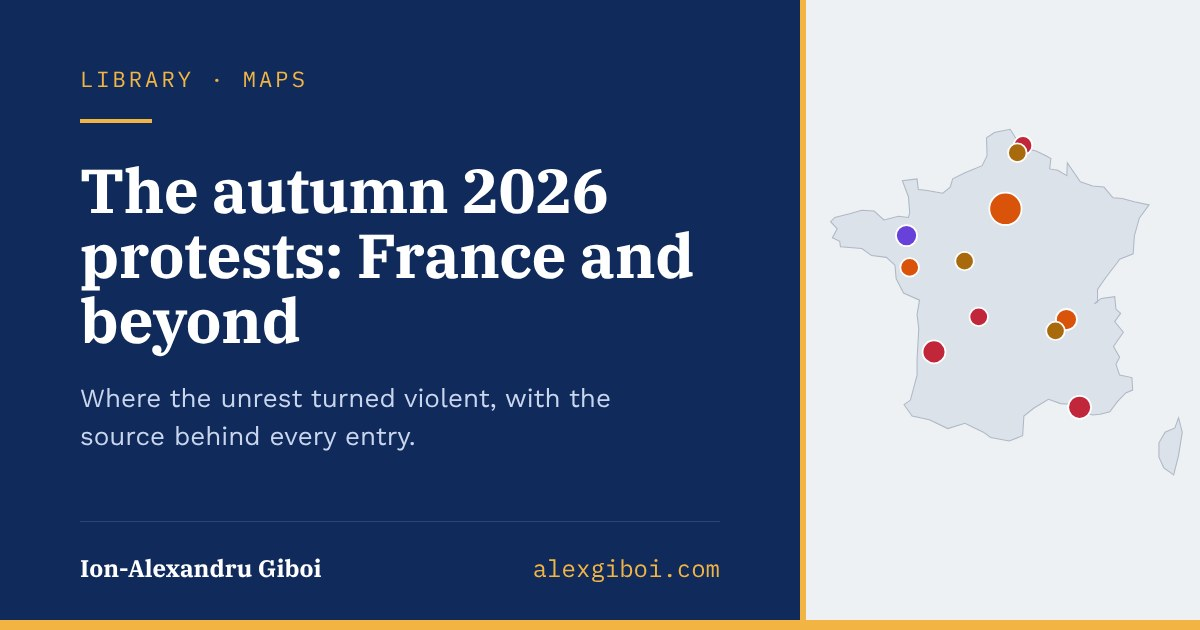
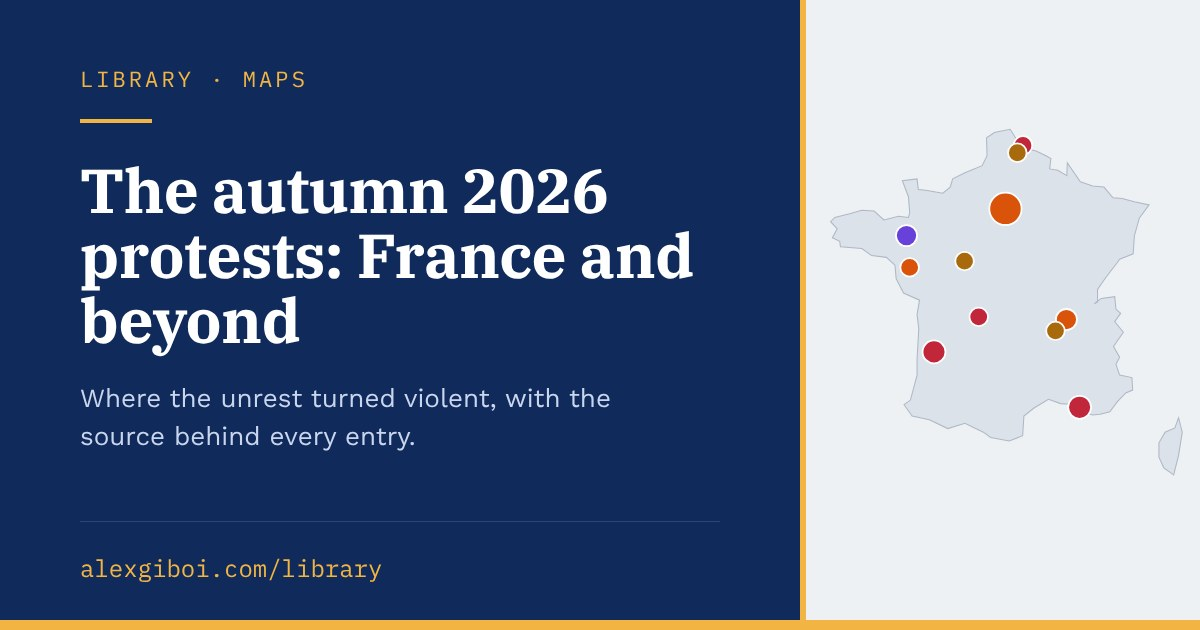
Library: use 'Library' in all languages, drop name from protests share card
Claude-Session: https://claude.ai/code/session_0135eHNHAy2dHED6pwpM7i8h

Changed region(s): [[0.0617, 0.8746, 0.3392, 0.9349], [0.4317, 0.8746, 0.6167, 0.9349]]

diff --git a/public/library/france-protests-2026/index.html b/public/library/france-protests-2026/index.html
@@ -341,7 +341,7 @@ const I18N={
   srcH:"Sources", credit:"Researched and built with the help of Claude (Anthropic), based on the public sources listed above. <a href=\"/#contact\">Corrections welcome</a>."
  },
  it:{
-  eyebrow:"Biblioteca · Mappa · ott 2026", h1:"Le proteste dell'autunno 2026: la Francia e oltre",
+  eyebrow:"Library · Mappa · ott 2026", h1:"Le proteste dell'autunno 2026: la Francia e oltre",
   frH:"Francia: dove le proteste sono degenerate", byH:"Oltre la Francia",
   byLede:"Nelle stesse settimane, proteste per le condizioni delle scuole, i bilanci dell'istruzione e il caro vita sono nate anche altrove in Europa e in America Latina, mentre in Brasile e in India i giovani sono scesi in piazza per questioni di politica nazionale. Questa mappa è meno dettagliata di quella sulla Francia: una voce per Paese, con i soli eventi principali. Il colore indica se gli organizzatori hanno collegato la protesta alla Francia.",
   euNote:"Contorni semplificati, solo per orientarsi. Passa dalla vista mondiale a quella europea, tocca un Paese per leggerne la voce, oppure tocca la Francia nella vista europea per tornare alla mappa dettagliata.",
@@ -380,7 +380,7 @@ const I18N={
   srcH:"Fonti", credit:"Ricerca e pagina realizzate con l'aiuto di Claude (Anthropic), sulla base delle fonti pubbliche indicate sopra. <a href=\"/#contact\">Le correzioni sono benvenute</a>."
  },
  ro:{
-  eyebrow:"Bibliotecă · Hartă · oct. 2026", h1:"Protestele din toamna lui 2026: Franța și restul lumii",
+  eyebrow:"Library · Hartă · oct. 2026", h1:"Protestele din toamna lui 2026: Franța și restul lumii",
   frH:"Franța: unde protestele au degenerat", byH:"Dincolo de Franța",
   byLede:"În aceleași săptămâni, proteste legate de condițiile din școli, bugetele educației și costul vieții au apărut și în alte țări europene și în America Latină, iar în Brazilia și India tinerii au ieșit în stradă din motive de politică internă. Această hartă este mai puțin detaliată decât cea pentru Franța: câte o intrare pentru fiecare țară, doar cu evenimentele principale. Culoarea arată dacă organizatorii și-au legat protestul de Franța.",
   euNote:"Contururi simplificate, doar pentru orientare. Comută între vederea lumii și cea a Europei, atinge o țară pentru a citi intrarea sau atinge Franța în vederea Europei pentru a reveni la harta detaliată.",
